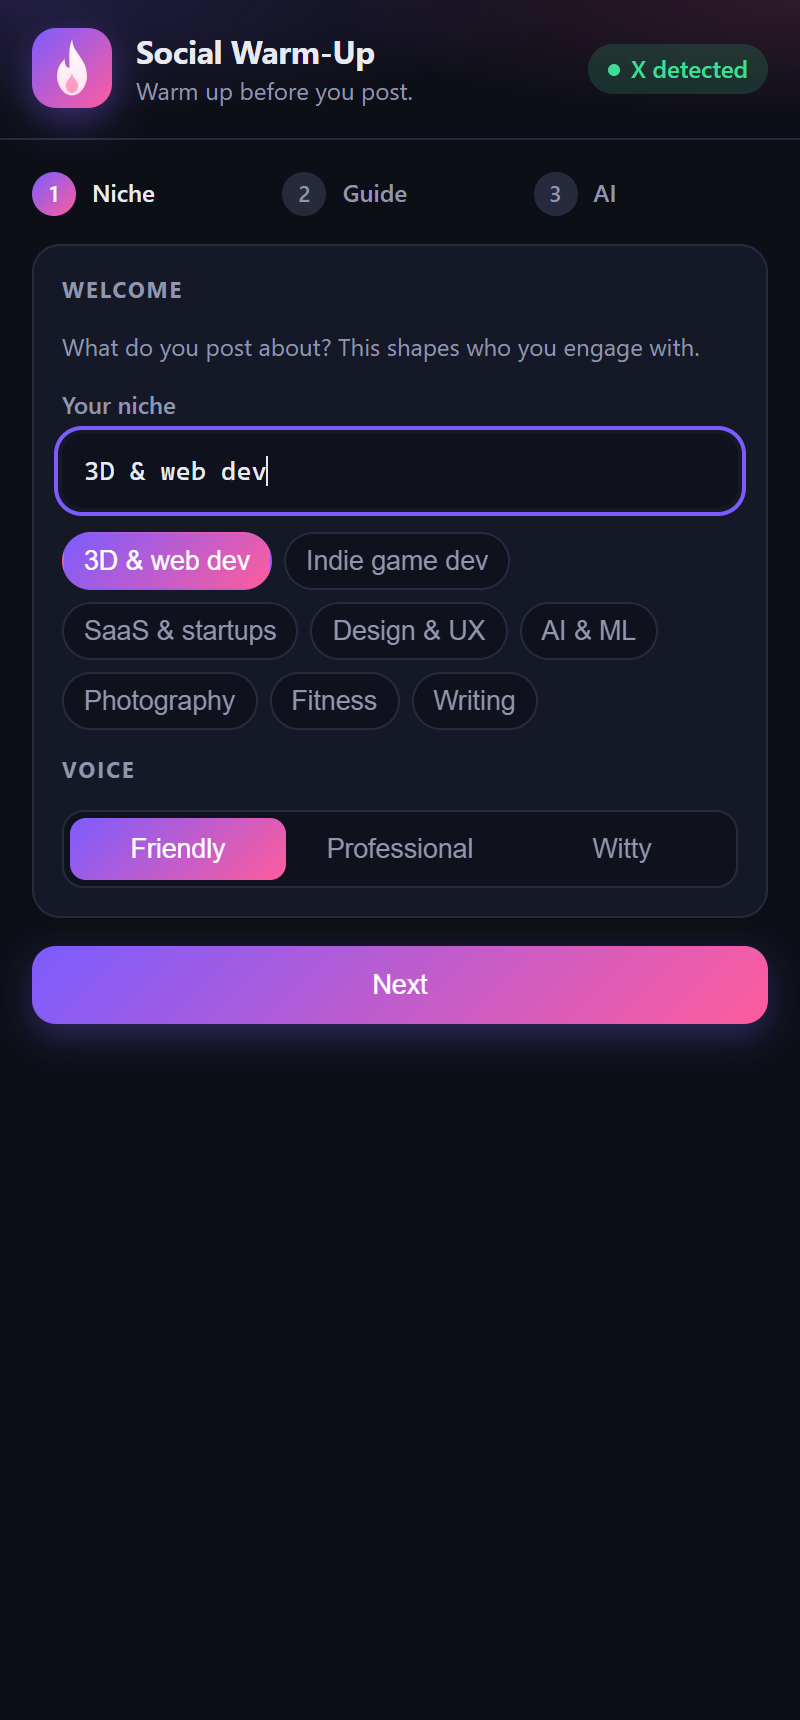
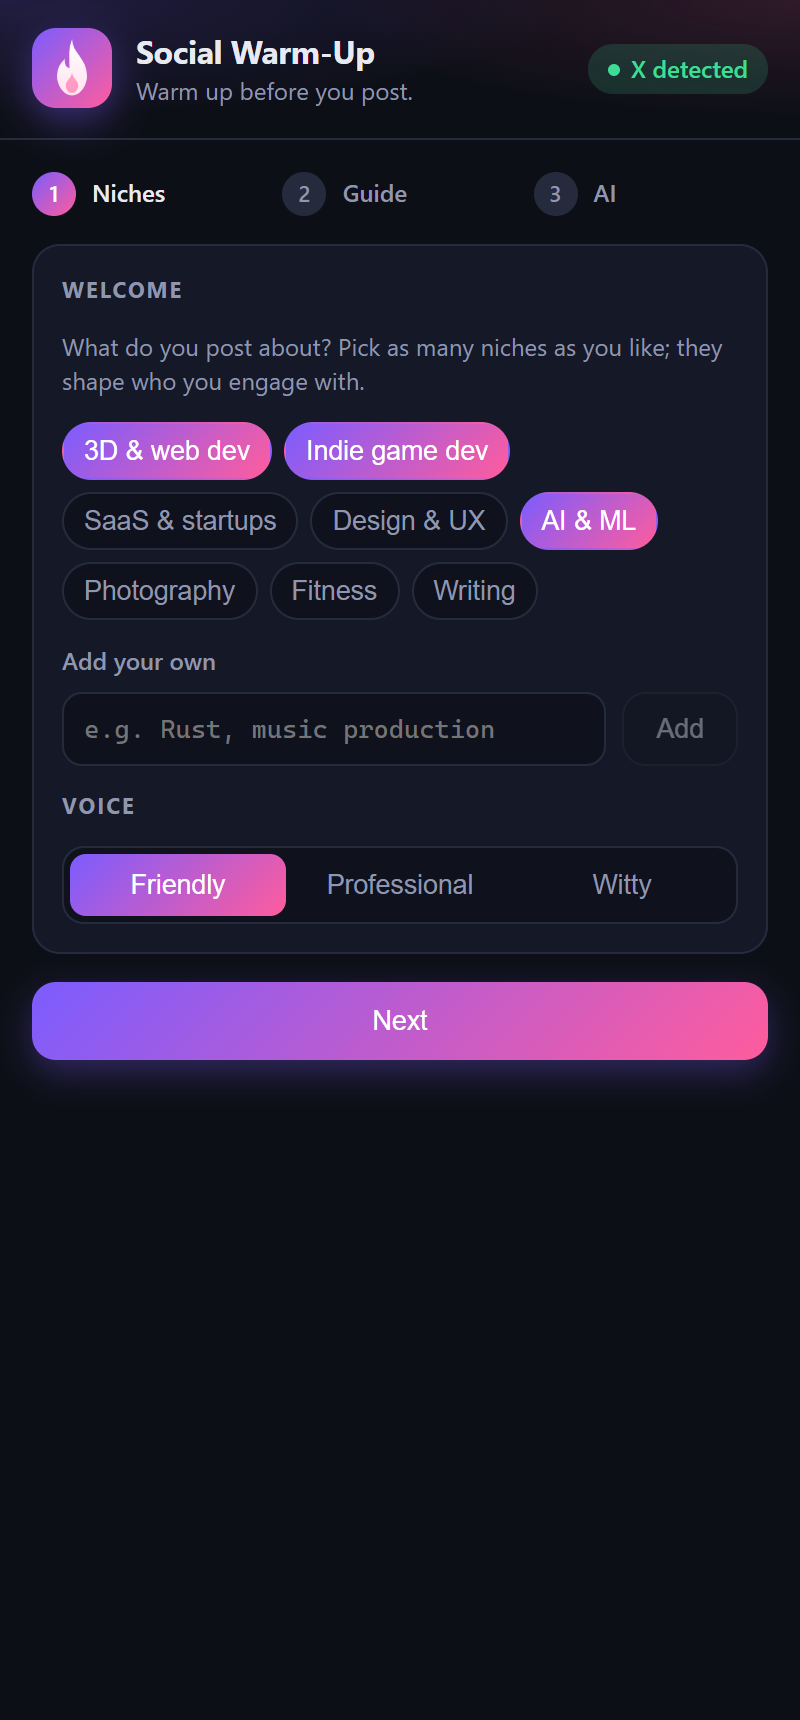
Setup: choose multiple niches

Changed region(s): [[0.0312, 0.1849, 0.9688, 0.6471], [0.9062, 0.2465, 0.9375, 0.3081], [0.8125, 0.4006, 0.875, 0.4314]]

diff --git a/src/features/onboarding/OnboardingFlow.tsx b/src/features/onboarding/OnboardingFlow.tsx
@@ -1,7 +1,7 @@
 import { useState, type ReactNode } from 'react'
 import type { Cfg } from '../settings/settings.model'
 import type { SettingsForm } from '../settings/useSettings'
-import { NICHES, TONES, guideFor, type Tone } from './onboarding.guide'
+import { NICHES, TONES, guideFor, parseNiches, type Tone } from './onboarding.guide'
 
 type Props = {
   form: SettingsForm
@@ -10,21 +10,30 @@ type Props = {
   onDone: () => void
 }
 
-const STEPS = ['Niche', 'Guide', 'AI']
+const STEPS = ['Niches', 'Guide', 'AI']
 
 export function OnboardingFlow({ form, cfg, aiStep, onDone }: Props) {
   const [step, setStep] = useState(0)
-  const [niche, setNiche] = useState(cfg.niche)
+  const [niches, setNiches] = useState(() => parseNiches(cfg.niche))
+  const [custom, setCustom] = useState('')
   const [tone, setTone] = useState<Tone>('friendly')
   const [guide, setGuide] = useState(cfg.base)
   const [edited, setEdited] = useState(false)
 
+  const toggle = (n: string) => setNiches((ns) => (ns.includes(n) ? ns.filter((x) => x !== n) : [...ns, n]))
+  const addCustom = () => {
+    const n = custom.trim().replace(/,/g, ' ')
+    if (n && !niches.some((x) => x.toLowerCase() === n.toLowerCase())) setNiches((ns) => [...ns, n])
+    setCustom('')
+  }
+  const chips = [...NICHES, ...niches.filter((n) => !NICHES.includes(n))] // presets first, then the user's own
+
   const next = () => {
-    if (step === 0 && !edited) setGuide(guideFor(niche, tone)) // suggestion until the user edits it
+    if (step === 0 && !edited) setGuide(guideFor(niches, tone)) // suggestion until the user edits it
     setStep(step + 1)
   }
   const finish = () => {
-    form.setFieldValue('niche', niche.trim())
+    form.setFieldValue('niche', niches.join(', '))
     form.setFieldValue('base', guide)
     onDone()
   }
@@ -38,13 +47,19 @@ export function OnboardingFlow({ form, cfg, aiStep, onDone }: Props) {
       {step === 0 && (
         <section className="card">
           <h2>Welcome</h2>
-          <p className="hint">What do you post about? This shapes who you engage with.</p>
-          <label className="field">Your niche
-            <input autoFocus placeholder="e.g. 3D & web dev" value={niche} onChange={(e) => setNiche(e.target.value)} />
-          </label>
+          <p className="hint">What do you post about? Pick as many niches as you like; they shape who you engage with.</p>
           <div className="chips">
-            {NICHES.map((n) => <button key={n} className={'chip' + (niche === n ? ' on' : '')} onClick={() => setNiche(n)}>{n}</button>)}
+            {chips.map((n) => (
+              <button key={n} aria-pressed={niches.includes(n)} className={'chip' + (niches.includes(n) ? ' on' : '')} onClick={() => toggle(n)}>{n}</button>
+            ))}
           </div>
+          <label className="field">Add your own
+            <div className="adder">
+              <input placeholder="e.g. Rust, music production" value={custom} onChange={(e) => setCustom(e.target.value)}
+                onKeyDown={(e) => { if (e.key === 'Enter') { e.preventDefault(); addCustom() } }} />
+              <button className="primary stop" disabled={!custom.trim()} onClick={addCustom}>Add</button>
+            </div>
+          </label>
           <h2>Voice</h2>
           <div className="seg" role="radiogroup" aria-label="Voice">
             {(Object.keys(TONES) as Tone[]).map((t) => (
@@ -59,7 +74,7 @@ export function OnboardingFlow({ form, cfg, aiStep, onDone }: Props) {
           <h2>Guide prompt</h2>
           <p className="hint">Your standing instructions for the AI. Edit freely; you can change it any time in the Gather tab.</p>
           <textarea rows={12} spellCheck={false} value={guide} onChange={(e) => { setGuide(e.target.value); setEdited(true) }} />
-          <button className="primary stop" onClick={() => { setGuide(guideFor(niche, tone)); setEdited(false) }}>Reset to suggestion</button>
+          <button className="primary stop" onClick={() => { setGuide(guideFor(niches, tone)); setEdited(false) }}>Reset to suggestion</button>
         </section>
       )}
 
@@ -73,7 +88,7 @@ export function OnboardingFlow({ form, cfg, aiStep, onDone }: Props) {
       <div className="btns">
         {step > 0 && <button className="primary stop" onClick={() => setStep(step - 1)}>Back</button>}
         {step < 2
-          ? <button className="primary" disabled={step === 0 ? !niche.trim() : !guide.trim()} onClick={next}>Next</button>
+          ? <button className="primary" disabled={step === 0 ? !niches.length : !guide.trim()} onClick={next}>Next</button>
           : <button className="primary" onClick={finish}>Finish setup</button>}
       </div>
       {step === 2 && <button className="linkbtn" onClick={finish}>Skip AI for now</button>}

diff --git a/src/features/onboarding/onboarding.guide.ts b/src/features/onboarding/onboarding.guide.ts
@@ -7,12 +7,17 @@ export const TONES = {
 } as const
 export type Tone = keyof typeof TONES
 
+export const parseNiches = (s: string) => s.split(',').map((x) => x.trim()).filter(Boolean)
+
 // the starting "guide prompt": the user edits it in the next step
-export const guideFor = (niche: string, tone: Tone) => `You are helping me warm up my social media account before I post.
-My niche: ${niche.trim()}.
-Voice: ${TONES[tone]}, specific and brief, like a real person in this community.
-- Like posts that are genuinely good or relevant to my niche.
+export const guideFor = (niches: string[], tone: Tone) => {
+  const many = niches.length > 1
+  return `You are helping me warm up my social media account before I post.
+${many ? 'My niches' : 'My niche'}: ${niches.join(', ')}.
+Voice: ${TONES[tone]}, specific and brief, like a real person in ${many ? 'these communities' : 'this community'}.
+- Like posts that are genuinely good or relevant to ${many ? 'my niches' : 'my niche'}.
 - For each item under "replies", draft one short reply (max 200 chars) that adds something real: a specific observation, a useful question or a relevant experience. No hashtags, no links, no emoji spam, no self-promotion.
-- Follow accounts that share original work in my niche.
+- Follow accounts that share original work in ${many ? 'my niches' : 'my niche'}.
 - Skip anything off-topic, controversial, spammy or low quality.
 Pace actions randomly with human-like pauses, and stop if anything looks off (rate limits, captchas).`
+}

diff --git a/src/app/styles.css b/src/app/styles.css
@@ -126,3 +126,7 @@ details.fold > .code { margin-top: 10px; }
 .chip:hover { color: var(--text); } .chip.on { background: var(--brand); border-color: transparent; color: #fff; }
 .linkbtn { background: none; border: 0; color: var(--mut); font: 600 12px inherit; cursor: pointer; text-decoration: underline; justify-self: center; }
 main > .btns .primary { flex: 1; }
+
+.adder { display: flex; gap: 8px; }
+.adder input { flex: 1; min-width: 0; }
+.adder .primary { padding: 0 16px; }

diff --git a/README.md b/README.md
@@ -37,7 +37,7 @@ Posting cold is slow. Warming up an account means scrolling, picking posts worth
     <td></td>
   </tr>
   <tr>
-    <td align="center"><img src="docs/screenshots/setup-niche.png" width="230" alt="Setup: niche" /><br /><sub><b>Setup 1</b>: your niche and voice</sub></td>
+    <td align="center"><img src="docs/screenshots/setup-niche.png" width="230" alt="Setup: niche" /><br /><sub><b>Setup 1</b>: niches and voice</sub></td>
     <td align="center"><img src="docs/screenshots/setup-guide.png" width="230" alt="Setup: guide prompt" /><br /><sub><b>Setup 2</b>: your guide prompt</sub></td>
     <td align="center"><img src="docs/screenshots/setup-ai.png" width="230" alt="Setup: AI" /><br /><sub><b>Setup 3</b>: optional AI</sub></td>
   </tr>
@@ -90,7 +90,7 @@ Then open `chrome://extensions`, enable **Developer mode**, choose **Load unpack
 
 ## First run
 
-On a fresh install the panel opens a short **setup**: pick your **niche** and **voice**, review the **guide prompt** it drafts for you (edit freely), and optionally connect an **AI model**. Then you land in the normal Gather / Apply flow. Redo it any time from the cog → **Run setup again**. Installs that already have saved settings skip it.
+On a fresh install the panel opens a short **setup**: pick your **niches** (as many as you like, or add your own) and **voice**, review the **guide prompt** it drafts for you (edit freely), and optionally connect an **AI model**. Then you land in the normal Gather / Apply flow. Redo it any time from the cog → **Run setup again**. Installs that already have saved settings skip it.
 
 ## Use it
 
